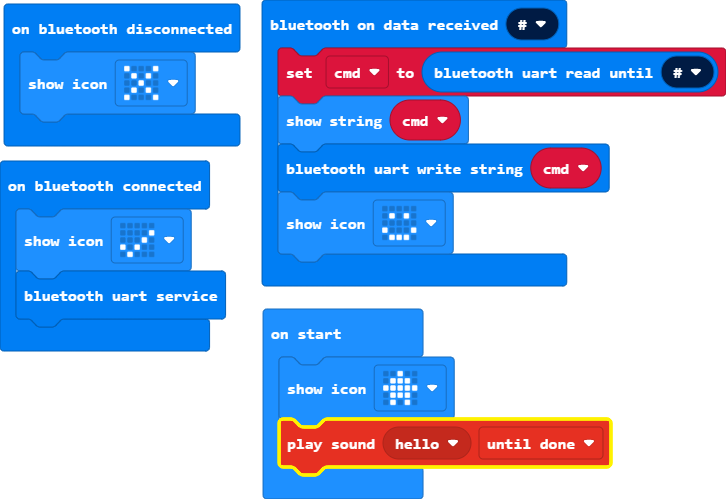
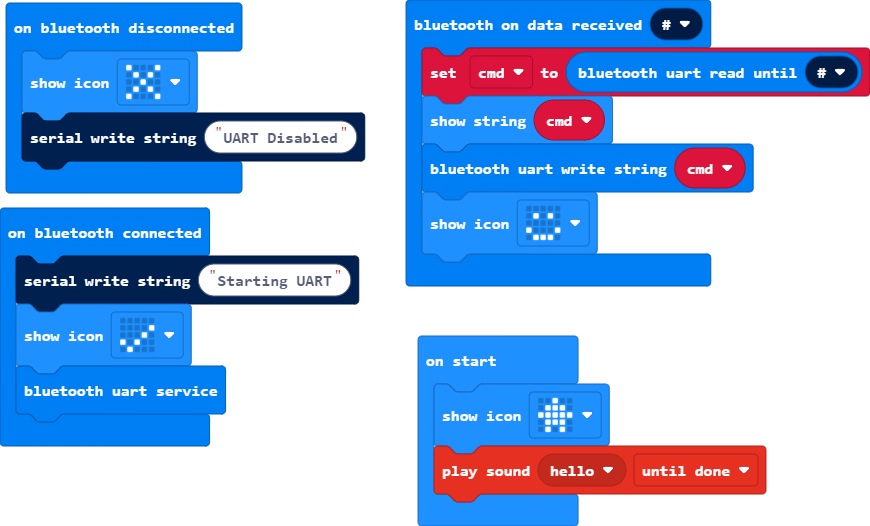
UART message

diff --git a/main.ts b/main.ts
@@ -1,9 +1,11 @@
 bluetooth.onBluetoothConnected(function () {
+    serial.writeString("Starting UART")
     basic.showIcon(IconNames.Yes)
     bluetooth.startUartService()
 })
 bluetooth.onBluetoothDisconnected(function () {
     basic.showIcon(IconNames.No)
+    serial.writeString("UART Disabled")
 })
 bluetooth.onUartDataReceived(serial.delimiters(Delimiters.Hash), function () {
     cmd = bluetooth.uartReadUntil(serial.delimiters(Delimiters.Hash))
